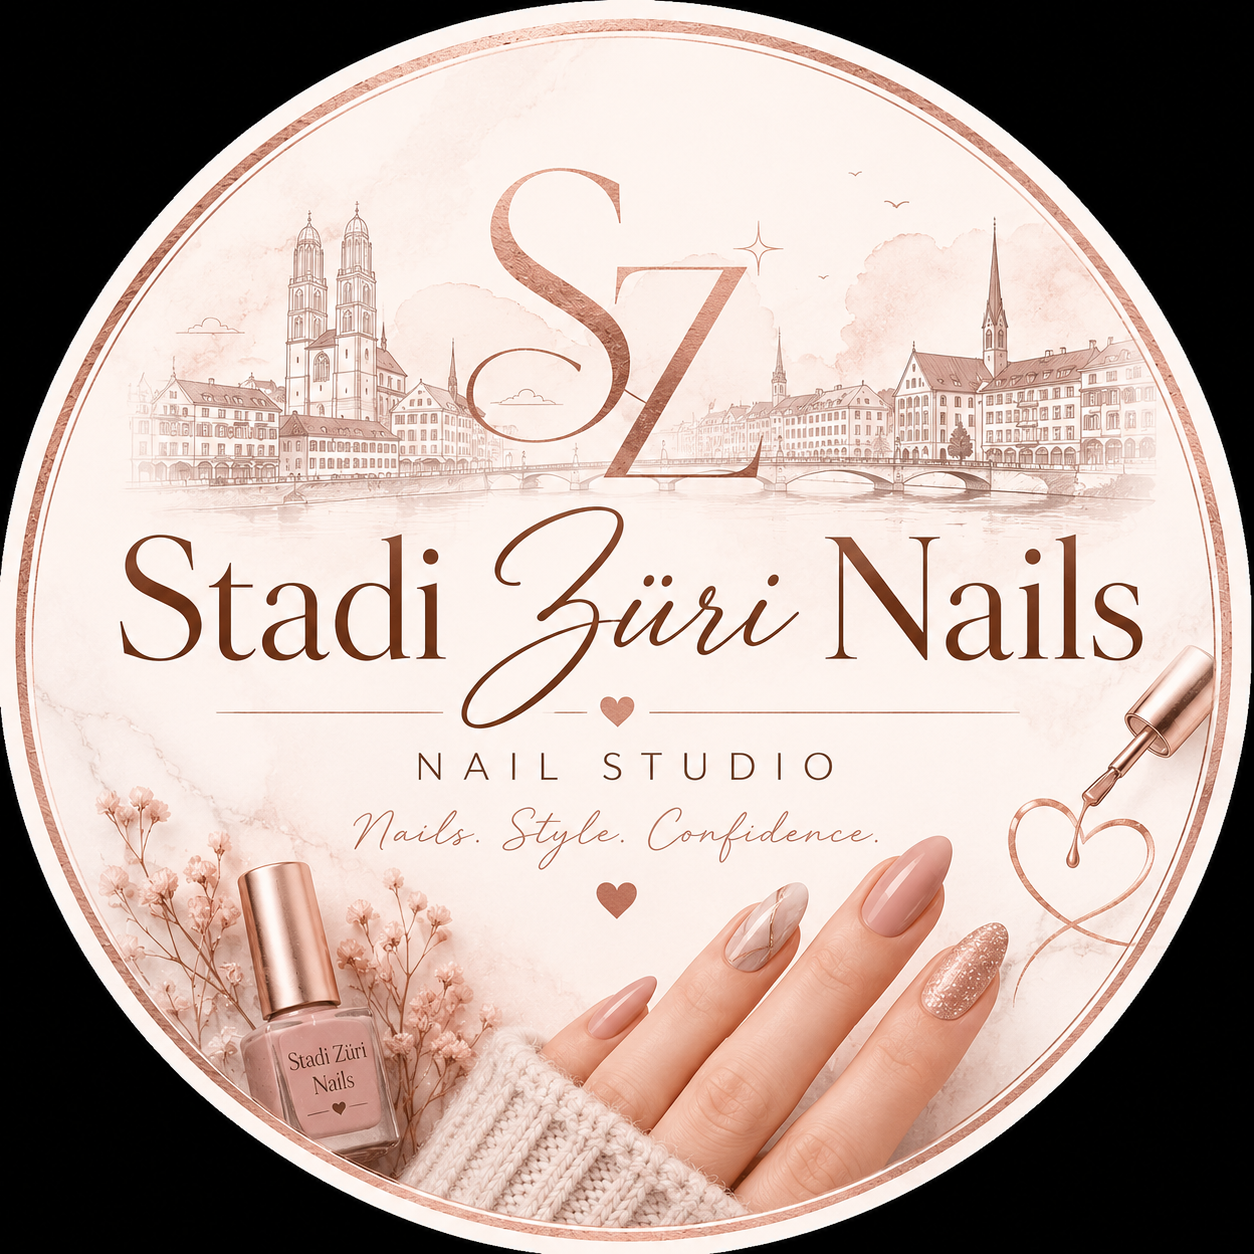
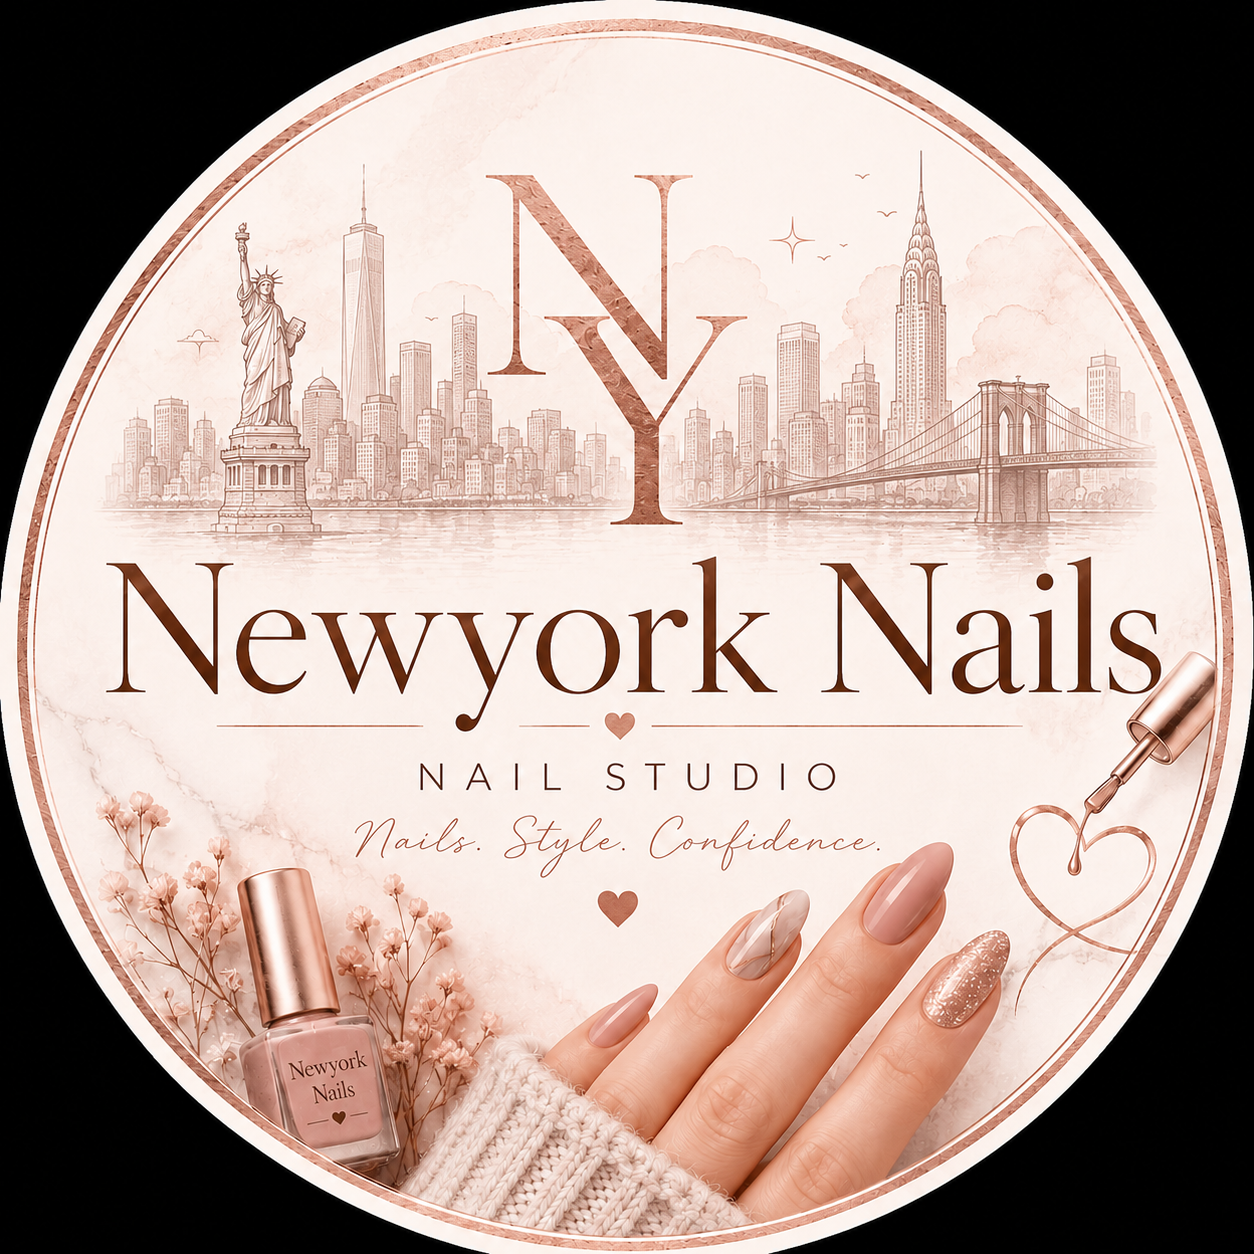
upload

diff --git a/index.html b/index.html
@@ -5,20 +5,20 @@
     <meta name="viewport" content="width=device-width, initial-scale=1.0" />
     <meta
       name="description"
-      content="Stadi Züri Nails in Zürich. European nail care, birthday offers, booking, gallery, menu and contact information."
+      content="Newyork Nails in Zürich. European nail care, birthday offers, booking, gallery, menu and contact information."
     />
-    <title>Stadi Züri Nails | Zürich Nail Salon</title>
+    <title>Newyork Nails | Zürich Nail Salon</title>
     <link rel="icon" href="avatar.jpg" type="image/jpeg" />
     <meta property="og:image" content="avatar.jpg" />
     <link rel="stylesheet" href="styles.css" />
   </head>
   <body>
     <header class="site-header">
-      <a class="brand" href="#home" aria-label="Stadi Züri Nails">
+      <a class="brand" href="#home" aria-label="Newyork Nails">
         <span class="brand-avatar" aria-hidden="true">
           <img src="avatar.jpg" alt="" />
         </span>
-        <span class="brand-name">Stadi Züri Nails</span>
+        <span class="brand-name">Newyork Nails</span>
       </a>
 
       <nav class="main-nav" aria-label="Primary navigation">
@@ -52,7 +52,7 @@
 
         <div class="hero-content">
           <p class="eyebrow" data-i18n="hero.eyebrow">Zurich nail studio</p>
-          <h1 id="hero-title">Stadi Züri Nails</h1>
+          <h1 id="hero-title">Newyork Nails</h1>
           <p class="hero-copy" data-i18n="hero.copy">
             Elegant nail care in the heart of Zürich, shaped for polished everyday moments and special occasions.
           </p>
@@ -88,15 +88,15 @@
             <p class="eyebrow" data-i18n="salon.eyebrow">Stadelhofen, Zürich</p>
             <h2 data-i18n="salon.title">A refined nail stop near the city center.</h2>
             <p data-i18n="salon.copy">
-              Stadi Züri Nails brings together clean European styling, careful shaping and expressive nail art in a calm studio setting.
+              Newyork Nails brings together clean European styling, careful shaping and expressive nail art in a calm studio setting.
             </p>
           </div>
           <div class="editorial-media">
             <figure class="feature-media feature-media-main">
-              <img src="hinh1.jpg" alt="Interior detail at Stadi Züri Nails" />
+              <img src="hinh1.jpg" alt="Interior detail at Newyork Nails" />
             </figure>
             <figure class="feature-media feature-media-accent">
-              <img src="hinh2.jpg" alt="Salon detail at Stadi Züri Nails" />
+              <img src="hinh2.jpg" alt="Salon detail at Newyork Nails" />
             </figure>
           </div>
         </div>
@@ -262,41 +262,41 @@
             <h2 id="gallery-title" data-i18n="gallery.title">Recent nail moods from the studio.</h2>
           </div>
           <div class="gallery-grid">
-            <img src="Ảnh mới cập nhật/image_178011111.jpg" alt="Nail design from Stadi Züri Nails" loading="lazy" />
-            <img src="Ảnh mới cập nhật/image_178021712331.jpg" alt="Nail design from Stadi Züri Nails" loading="lazy" />
-            <img src="Ảnh mới cập nhật/image_178021715674.jpg" alt="Nail design from Stadi Züri Nails" loading="lazy" />
-            <img src="Ảnh mới cập nhật/image_178021733332.jpg" alt="Nail design from Stadi Züri Nails" loading="lazy" />
-            <img src="Ảnh mới cập nhật/image_178021788663.jpg" alt="Nail design from Stadi Züri Nails" loading="lazy" />
-            <img src="Ảnh mới cập nhật/image_1780217972818.jpg" alt="Nail design from Stadi Züri Nails" loading="lazy" />
-            <img src="Ảnh mới cập nhật/image_1780217972860.jpg" alt="Nail design from Stadi Züri Nails" loading="lazy" />
-            <img src="Ảnh mới cập nhật/image_1780217972864.jpg" alt="Nail design from Stadi Züri Nails" loading="lazy" />
-            <img src="Ảnh mới cập nhật/image_1780217972867.jpg" alt="Nail design from Stadi Züri Nails" loading="lazy" />
-            <img src="Ảnh mới cập nhật/image_1780217972871.jpg" alt="Nail design from Stadi Züri Nails" loading="lazy" />
-            <img src="Ảnh mới cập nhật/image_1780217972875.jpg" alt="Nail design from Stadi Züri Nails" loading="lazy" />
-            <img src="Ảnh mới cập nhật/image_1780217972878.jpg" alt="Nail design from Stadi Züri Nails" loading="lazy" />
-            <img src="Ảnh mới cập nhật/image_1780217972882.jpg" alt="Nail design from Stadi Züri Nails" loading="lazy" />
-            <img src="Ảnh mới cập nhật/image_1780217972884.jpg" alt="Nail design from Stadi Züri Nails" loading="lazy" />
-            <img src="Ảnh mới cập nhật/image_1780217972886.jpg" alt="Nail design from Stadi Züri Nails" loading="lazy" />
-            <img src="Ảnh mới cập nhật/image_1780217972894.jpg" alt="Nail design from Stadi Züri Nails" loading="lazy" />
-            <img src="Ảnh mới cập nhật/image_1780217972898.jpg" alt="Nail design from Stadi Züri Nails" loading="lazy" />
-            <img src="Ảnh mới cập nhật/image_1780217972904.jpg" alt="Nail design from Stadi Züri Nails" loading="lazy" />
-            <img src="Ảnh mới cập nhật/image_1780217972907.jpg" alt="Nail design from Stadi Züri Nails" loading="lazy" />
-            <img src="Ảnh mới cập nhật/image_1780217972910.jpg" alt="Nail design from Stadi Züri Nails" loading="lazy" />
-            <img src="Ảnh mới cập nhật/image_1780217972912.jpg" alt="Nail design from Stadi Züri Nails" loading="lazy" />
-            <img src="Ảnh mới cập nhật/image_1780217972915.jpg" alt="Nail design from Stadi Züri Nails" loading="lazy" />
-            <img src="Ảnh mới cập nhật/image_1780217972917.jpg" alt="Nail design from Stadi Züri Nails" loading="lazy" />
-            <img src="Ảnh mới cập nhật/image_1780217972920.jpg" alt="Nail design from Stadi Züri Nails" loading="lazy" />
-            <img src="Ảnh mới cập nhật/image_1780217972922.jpg" alt="Nail design from Stadi Züri Nails" loading="lazy" />
-            <img src="Ảnh mới cập nhật/image_1780217972925.jpg" alt="Nail design from Stadi Züri Nails" loading="lazy" />
-            <img src="Ảnh mới cập nhật/image_1780217972927.jpg" alt="Nail design from Stadi Züri Nails" loading="lazy" />
-            <img src="Ảnh mới cập nhật/image_1780217972929.jpg" alt="Nail design from Stadi Züri Nails" loading="lazy" />
-            <img src="Ảnh mới cập nhật/image_1780217972932.jpg" alt="Nail design from Stadi Züri Nails" loading="lazy" />
-            <img src="Ảnh mới cập nhật/image_1780217972935.jpg" alt="Nail design from Stadi Züri Nails" loading="lazy" />
-            <img src="Ảnh mới cập nhật/image_1780217972937.jpg" alt="Nail design from Stadi Züri Nails" loading="lazy" />
-            <img src="Ảnh mới cập nhật/image_1780217972939.jpg" alt="Nail design from Stadi Züri Nails" loading="lazy" />
-            <img src="Ảnh mới cập nhật/image_1780217972941.jpg" alt="Nail design from Stadi Züri Nails" loading="lazy" />
-            <img src="Ảnh mới cập nhật/image_17802179729773.jpg" alt="Nail design from Stadi Züri Nails" loading="lazy" />
-            <img src="Ảnh mới cập nhật/image_17802179756345.jpg" alt="Nail design from Stadi Züri Nails" loading="lazy" />
+            <img src="Ảnh mới cập nhật/image_178011111.jpg" alt="Nail design from Newyork Nails" loading="lazy" />
+            <img src="Ảnh mới cập nhật/image_178021712331.jpg" alt="Nail design from Newyork Nails" loading="lazy" />
+            <img src="Ảnh mới cập nhật/image_178021715674.jpg" alt="Nail design from Newyork Nails" loading="lazy" />
+            <img src="Ảnh mới cập nhật/image_178021733332.jpg" alt="Nail design from Newyork Nails" loading="lazy" />
+            <img src="Ảnh mới cập nhật/image_178021788663.jpg" alt="Nail design from Newyork Nails" loading="lazy" />
+            <img src="Ảnh mới cập nhật/image_1780217972818.jpg" alt="Nail design from Newyork Nails" loading="lazy" />
+            <img src="Ảnh mới cập nhật/image_1780217972860.jpg" alt="Nail design from Newyork Nails" loading="lazy" />
+            <img src="Ảnh mới cập nhật/image_1780217972864.jpg" alt="Nail design from Newyork Nails" loading="lazy" />
+            <img src="Ảnh mới cập nhật/image_1780217972867.jpg" alt="Nail design from Newyork Nails" loading="lazy" />
+            <img src="Ảnh mới cập nhật/image_1780217972871.jpg" alt="Nail design from Newyork Nails" loading="lazy" />
+            <img src="Ảnh mới cập nhật/image_1780217972875.jpg" alt="Nail design from Newyork Nails" loading="lazy" />
+            <img src="Ảnh mới cập nhật/image_1780217972878.jpg" alt="Nail design from Newyork Nails" loading="lazy" />
+            <img src="Ảnh mới cập nhật/image_1780217972882.jpg" alt="Nail design from Newyork Nails" loading="lazy" />
+            <img src="Ảnh mới cập nhật/image_1780217972884.jpg" alt="Nail design from Newyork Nails" loading="lazy" />
+            <img src="Ảnh mới cập nhật/image_1780217972886.jpg" alt="Nail design from Newyork Nails" loading="lazy" />
+            <img src="Ảnh mới cập nhật/image_1780217972894.jpg" alt="Nail design from Newyork Nails" loading="lazy" />
+            <img src="Ảnh mới cập nhật/image_1780217972898.jpg" alt="Nail design from Newyork Nails" loading="lazy" />
+            <img src="Ảnh mới cập nhật/image_1780217972904.jpg" alt="Nail design from Newyork Nails" loading="lazy" />
+            <img src="Ảnh mới cập nhật/image_1780217972907.jpg" alt="Nail design from Newyork Nails" loading="lazy" />
+            <img src="Ảnh mới cập nhật/image_1780217972910.jpg" alt="Nail design from Newyork Nails" loading="lazy" />
+            <img src="Ảnh mới cập nhật/image_1780217972912.jpg" alt="Nail design from Newyork Nails" loading="lazy" />
+            <img src="Ảnh mới cập nhật/image_1780217972915.jpg" alt="Nail design from Newyork Nails" loading="lazy" />
+            <img src="Ảnh mới cập nhật/image_1780217972917.jpg" alt="Nail design from Newyork Nails" loading="lazy" />
+            <img src="Ảnh mới cập nhật/image_1780217972920.jpg" alt="Nail design from Newyork Nails" loading="lazy" />
+            <img src="Ảnh mới cập nhật/image_1780217972922.jpg" alt="Nail design from Newyork Nails" loading="lazy" />
+            <img src="Ảnh mới cập nhật/image_1780217972925.jpg" alt="Nail design from Newyork Nails" loading="lazy" />
+            <img src="Ảnh mới cập nhật/image_1780217972927.jpg" alt="Nail design from Newyork Nails" loading="lazy" />
+            <img src="Ảnh mới cập nhật/image_1780217972929.jpg" alt="Nail design from Newyork Nails" loading="lazy" />
+            <img src="Ảnh mới cập nhật/image_1780217972932.jpg" alt="Nail design from Newyork Nails" loading="lazy" />
+            <img src="Ảnh mới cập nhật/image_1780217972935.jpg" alt="Nail design from Newyork Nails" loading="lazy" />
+            <img src="Ảnh mới cập nhật/image_1780217972937.jpg" alt="Nail design from Newyork Nails" loading="lazy" />
+            <img src="Ảnh mới cập nhật/image_1780217972939.jpg" alt="Nail design from Newyork Nails" loading="lazy" />
+            <img src="Ảnh mới cập nhật/image_1780217972941.jpg" alt="Nail design from Newyork Nails" loading="lazy" />
+            <img src="Ảnh mới cập nhật/image_17802179729773.jpg" alt="Nail design from Newyork Nails" loading="lazy" />
+            <img src="Ảnh mới cập nhật/image_17802179756345.jpg" alt="Nail design from Newyork Nails" loading="lazy" />
           </div>
         </div>
       </section>
@@ -354,7 +354,7 @@
           </div>
         </div>
 
-        <div class="map-embed" aria-label="Google map to Stadi Züri Nails">
+        <div class="map-embed" aria-label="Google map to Newyork Nails">
           <iframe
             src="https://www.google.com/maps/embed?pb=!1m18!1m12!1m3!1d2702.2753760302776!2d8.544221775871488!3d47.36754360445564!2m3!1f0!2f0!3f0!3m2!1i1024!2i768!4f13.1!3m3!1m2!1s0x479aa179614b8fb7%3A0x47f6d4f7ddb9c2b3!2sNagelstudio%20-%20New%20York%20Nails%20Stadelhoffen%20Z%C3%BCrich!5e0!3m2!1svi!2s!4v1780027428727!5m2!1svi!2s"
             width="600"
@@ -363,7 +363,7 @@
             allowfullscreen=""
             loading="lazy"
             referrerpolicy="no-referrer-when-downgrade"
-            title="Stadi Züri Nails on Google Maps"
+            title="Newyork Nails on Google Maps"
           ></iframe>
         </div>
       </section>
@@ -371,7 +371,7 @@
 
     <footer class="site-footer">
       <div>
-        <p>Stadi Züri Nails</p>
+        <p>Newyork Nails</p>
         <p>Stadelhoferstrasse 38, 8001 Zürich</p>
       </div>
       <div class="footer-credit">

diff --git a/script.js b/script.js
@@ -1,6 +1,6 @@
 const translations = {
   en: {
-    documentTitle: "Stadi Züri Nails | Zürich Nail Salon",
+    documentTitle: "Newyork Nails | Zürich Nail Salon",
     "nav.salon": "Salon",
     "nav.menu": "Menu",
     "nav.gallery": "Gallery",
@@ -17,7 +17,7 @@ const translations = {
     "salon.eyebrow": "Stadelhofen, Zürich",
     "salon.title": "A refined nail stop near the city center.",
     "salon.copy":
-      "Stadi Züri Nails brings together clean European styling, careful shaping and expressive nail art in a calm studio setting.",
+      "Newyork Nails brings together clean European styling, careful shaping and expressive nail art in a calm studio setting.",
     "services.eyebrow": "Nail care",
     "services.title": "Made for natural polish and statement detail.",
     "services.cards.0.title": "Manicure",
@@ -90,7 +90,7 @@ const translations = {
     "contact.bookingText": "Reserve your appointment",
   },
   de: {
-    documentTitle: "Stadi Züri Nails | Nagelstudio in Zürich",
+    documentTitle: "Newyork Nails | Nagelstudio in Zürich",
     "nav.salon": "Salon",
     "nav.menu": "Preise",
     "nav.gallery": "Galerie",
@@ -107,7 +107,7 @@ const translations = {
     "salon.eyebrow": "Stadelhofen, Zürich",
     "salon.title": "Ein gepflegter Nail-Stop nahe dem Stadtzentrum.",
     "salon.copy":
-      "Stadi Züri Nails verbindet klare europäische Ästhetik, sorgfältige Formgebung und ausdrucksstarke Nail Art in ruhiger Studioatmosphäre.",
+      "Newyork Nails verbindet klare europäische Ästhetik, sorgfältige Formgebung und ausdrucksstarke Nail Art in ruhiger Studioatmosphäre.",
     "services.eyebrow": "Nagelpflege",
     "services.title": "Für natürliche Eleganz und besondere Details.",
     "services.cards.0.title": "Maniküre",
@@ -202,7 +202,7 @@ function setLanguage(language) {
 
   document.documentElement.lang = language;
   document.title = dictionary.documentTitle;
-  localStorage.setItem("stadi-zuri-language", language);
+  localStorage.setItem("newyork-nails-language", language);
 
   languageButtons.forEach((button) => {
     const isActive = button.dataset.lang === language;
@@ -215,6 +215,6 @@ languageButtons.forEach((button) => {
   button.addEventListener("click", () => setLanguage(button.dataset.lang));
 });
 
-const savedLanguage = localStorage.getItem("stadi-zuri-language");
+const savedLanguage = localStorage.getItem("newyork-nails-language");
 const browserLanguage = navigator.language?.toLowerCase().startsWith("de") ? "de" : "en";
 setLanguage(savedLanguage || browserLanguage);
